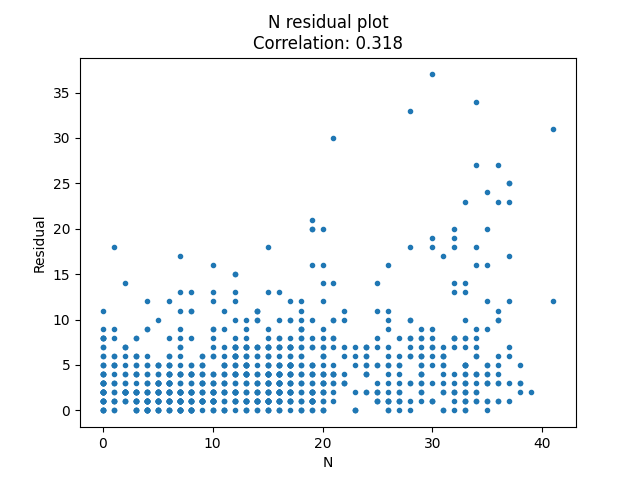
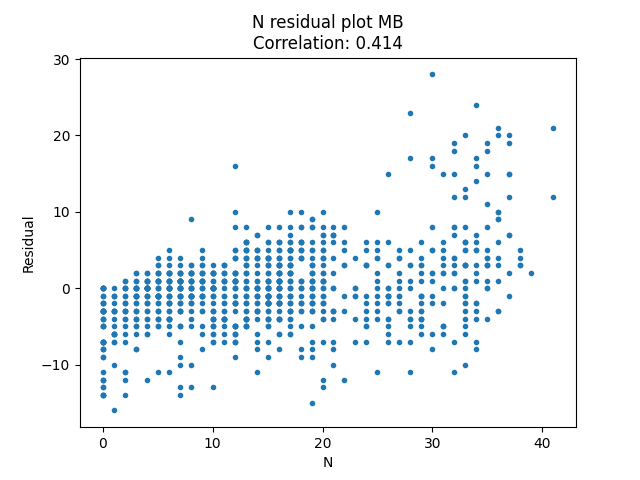
.

diff --git a/Functions.py b/Functions.py
@@ -1,18 +1,13 @@
 import numpy as np
 import pandas as pd
 from copy import copy
-from datetime import datetime
-from datetime import timedelta
-from scipy import stats
-from scipy.stats import norm, wilcoxon
-from constants import id_map
-from scipy.optimize import minimize, differential_evolution
 import matplotlib.pyplot as plt
+from datetime import datetime, timedelta
+from scipy.stats import norm, wilcoxon, probplot, shapiro
+from scipy.optimize import differential_evolution
 from sklearn.linear_model import LinearRegression
-from constants import V, bounds
-import statsmodels.api as sm
-import pylab as py
-from constants import ppm_factor
+from constants import V, bounds, id_map, ppm_factor
+from statsmodels.stats.contingency_tables import mcnemar
 
 
 def hold_out(dates, m=15, dt=15 * 60, plot=False, use_adjacent=True, filename_parameters='testing', optimise_N=False,
@@ -28,7 +23,6 @@ def hold_out(dates, m=15, dt=15 * 60, plot=False, use_adjacent=True, filename_pa
     :param dt:
     :return:
     """
-    from constants import bounds, V
 
     N_list, dd_list = load_lists(dates, dt)
     # dimension 0 -> zone, dimension 1 -> period, dimension 2 -> CO2,N error, dimension 3 -> proportion,avg.,list
@@ -439,7 +433,8 @@ def residual_analysis(dd_list, N_list, E_list, E_list_reg, filepath_plots='docum
     # errors by device (EBD) dimension 0 -> device, dimension 1 -> mean,std
     EBD_N, EBD_co2 = [[] for _ in dd_list], [[] for _ in dd_list]
     EBD_N_reg, EBD_co2_reg = [[] for _ in dd_list], [[] for _ in dd_list]
-    detected,  detected_reg = [[] for _ in dd_list], [[] for _ in dd_list]
+    detected, detected_reg = [[] for _ in dd_list], [[] for _ in dd_list]
+    all_detected, all_detected_reg = [], []
 
     dev_id = 0
     for device, device_N, device_errors, device_errors_reg in zip(dd_list, N_list, E_list, E_list_reg):
@@ -447,19 +442,24 @@ def residual_analysis(dd_list, N_list, E_list, E_list_reg, filepath_plots='docum
             for co2, n, error_co2, error_N, error_co2_reg, error_N_reg in zip(np.array(period)[:, 1], period_N, period_errors[0], period_errors[1], period_errors_reg[0][1:], period_errors_reg[1][1:]):
                 all_co2.append(co2)
                 all_N.append(n)
-                errors_co2.append(abs(error_co2))
-                errors_N.append(abs(error_N))
+                errors_co2.append((error_co2))
+                errors_N.append((error_N))
                 EBD_co2[dev_id].append(abs(error_co2))
                 EBD_N[dev_id].append(abs(error_N))
                 detected[dev_id].append(bool(n) and bool(n + error_N))
 
-                errors_co2_reg.append(abs(error_co2_reg))
-                errors_N_reg.append(abs(error_N_reg))
+                errors_co2_reg.append((error_co2_reg))
+                errors_N_reg.append((error_N_reg))
                 EBD_N_reg[dev_id].append(abs(error_N_reg))
                 EBD_co2_reg[dev_id].append(abs(error_co2_reg))
                 detected_reg[dev_id].append(bool(n) and bool(n + error_N_reg))
 
+                all_detected.append(bool(n) and bool(n + error_N))
+                all_detected_reg.append(bool(n) and bool(n + error_N_reg))
+
         if N_list[dev_id][0] and dd_list[dev_id][0]:
+            df = pd.crosstab(detected[dev_id], detected_reg[dev_id])
+            print(f'McNemar p-value for detecting occupancy zone {dev_id}:\n{mcnemar(df)}')
             detected[dev_id] = sum(detected[dev_id])/len(detected[dev_id])
             detected_reg[dev_id] = sum(detected_reg[dev_id])/len(detected_reg[dev_id])
             print('\nFor MB:\n')
@@ -485,7 +485,7 @@ def residual_analysis(dd_list, N_list, E_list, E_list_reg, filepath_plots='docum
     if plot:
         plt.scatter(all_co2, errors_co2, marker='.')
         cor_co2 = round(np.corrcoef(all_co2, errors_co2)[1, 0], 3)
-        plt.title(f'CO2 residual plot\nCorrelation: {cor_co2}')
+        plt.title(f'CO2 residual plot MB\nCorrelation: {cor_co2}')
         plt.ylabel('Residual')
         plt.xlabel('CO2')
         plt.savefig(filepath_plots + 'co2_residual', bbox_inches='tight')
@@ -493,7 +493,7 @@ def residual_analysis(dd_list, N_list, E_list, E_list_reg, filepath_plots='docum
 
         plt.scatter(all_N, errors_N, marker='.')
         cor_N = round(np.corrcoef(all_N, errors_N)[1, 0], 3)
-        plt.title(f'N residual plot\nCorrelation: {cor_N}')
+        plt.title(f'N residual plot MB\nCorrelation: {cor_N}')
         plt.ylabel('Residual')
         plt.xlabel('N')
         plt.savefig(filepath_plots + 'N_residual')
@@ -501,51 +501,82 @@ def residual_analysis(dd_list, N_list, E_list, E_list_reg, filepath_plots='docum
 
         plt.scatter(all_co2, errors_N, marker='.')
         cor_N = round(np.corrcoef(all_co2, errors_N)[1, 0], 3)
-        plt.title(f'CO2/N residual plot\nCorrelation: {cor_N}')
+        plt.title(f'CO2/N residual plot MB\nCorrelation: {cor_N}')
+        plt.ylabel('Residual N')
+        plt.xlabel('CO2')
+        plt.savefig(filepath_plots + 'co2_N_residual')
+        plt.show()
+
+        plt.scatter(all_co2, errors_co2_reg, marker='.')
+        cor_co2 = round(np.corrcoef(all_co2, errors_co2_reg)[1, 0], 3)
+        plt.title(f'CO2 residual plot reg\nCorrelation: {cor_co2}')
+        plt.ylabel('Residual')
+        plt.xlabel('CO2')
+        plt.savefig(filepath_plots + 'co2_residual', bbox_inches='tight')
+        plt.show()
+
+        plt.scatter(all_N, errors_N_reg, marker='.')
+        cor_N = round(np.corrcoef(all_N, errors_N_reg)[1, 0], 3)
+        plt.title(f'N residual plot MB\nCorrelation: {cor_N}')
+        plt.ylabel('Residual')
+        plt.xlabel('N')
+        plt.savefig(filepath_plots + 'N_residual')
+        plt.show()
+
+        plt.scatter(all_co2, errors_N_reg, marker='.')
+        cor_N = round(np.corrcoef(all_co2, errors_N_reg)[1, 0], 3)
+        plt.title(f'CO2/N residual plot MB\nCorrelation: {cor_N}')
         plt.ylabel('Residual')
         plt.xlabel('N')
         plt.savefig(filepath_plots + 'co2_N_residual')
         plt.show()
 
-        stats.probplot(all_N, dist="norm", plot=plt)
-        plt.title('Q-Q plot N Mass Balance')
+        probplot(errors_N, dist="norm", plot=plt)
+        shapiro_p = shapiro(errors_N).pvalue
+        plt.title(f'Q-Q plot N errors Mass Balance\nShapiro p-value: {shapiro_p}')
         plt.savefig(filepath_plots + 'qq_n_MB')
         plt.show()
 
-        stats.probplot(errors_N_reg, dist="norm", plot=plt)
-        plt.title('Q-Q plot N Linear Regression')
+        probplot(errors_N_reg, dist="norm", plot=plt)
+        shapiro_p = shapiro(errors_N_reg).pvalue
+        plt.title(f'Q-Q plot N errors Linear Regression\nShapiro p-value: {shapiro_p}')
         plt.savefig(filepath_plots + 'qq_n_lr')
         plt.show()
 
-        stats.probplot(all_co2, dist="norm", plot=plt)
-        plt.title('Q-Q plot CO2 Mass Balance')
+        probplot(errors_co2, dist="norm", plot=plt)
+        shapiro_p = shapiro(errors_co2).pvalue
+        plt.title(f'Q-Q plot CO2 errors Mass Balance\nShapiro p-value: {shapiro_p}')
         plt.savefig(filepath_plots + 'qq_co2_MB')
         plt.show()
 
-        stats.probplot(errors_co2_reg, dist="norm", plot=plt)
-        plt.title('Q-Q plot CO2 Linear Regression')
+        probplot(errors_co2_reg, dist="norm", plot=plt)
+        shapiro_p = shapiro(errors_co2_reg).pvalue
+        plt.title(f'Q-Q plot CO2 errors Linear Regression\nShapiro p-value: {shapiro_p}')
         plt.savefig(filepath_plots + 'qq_co2_lr')
         plt.show()
 
     print('For N:')
     print('Summary for mass balance errors:')
-    temp = pd.Series(errors_N)
+    temp = pd.Series(np.abs(errors_N))
     print(temp.describe())
     print('Summary for linear regression errors:')
-    temp = pd.Series(errors_N_reg)
+    temp = pd.Series(np.abs(errors_N_reg))
     print(temp.describe())
     wilcox = wilcoxon(all_N, errors_N_reg)
     print(f'P-values for wilcox rank sum test {wilcox.pvalue}')
 
     print('For co2:')
     print('Summary for mass balance errors:')
-    temp = pd.Series(errors_co2)
+    temp = pd.Series(np.abs(errors_co2))
     print(temp.describe())
     print('Summary for linear regression errors:')
-    temp = pd.Series(errors_co2_reg)
+    temp = pd.Series(np.abs(errors_co2_reg))
     print(temp.describe())
     wilcox = wilcoxon(all_co2, errors_co2_reg)
     print(f'P-values for wilcox rank sum test {wilcox.pvalue}')
+
+    df = pd.crosstab(all_detected, all_detected_reg)
+    print(f'McNemar p-value for detecting occupancy:\n{mcnemar(df)}')
 
     return EBD_N, EBD_co2, detected, EBD_N_reg, EBD_co2_reg, detected_reg
 

diff --git a/Optimise.py b/Optimise.py
@@ -14,6 +14,6 @@ dd_list, N_list, E_list = hold_out(dates, plot=True, filename_parameters='testin
                                    summary_errors=error_file)
 E_list_reg = simple_models_hold_out(dates, dt=15 * 60, method='l', plot=True, plot_scatter=0)
 
-residual_analysis(dd_list, N_list, E_list, E_list_reg, plot=False)
+residual_analysis(dd_list, N_list, E_list, E_list_reg, plot=True)
 
 
